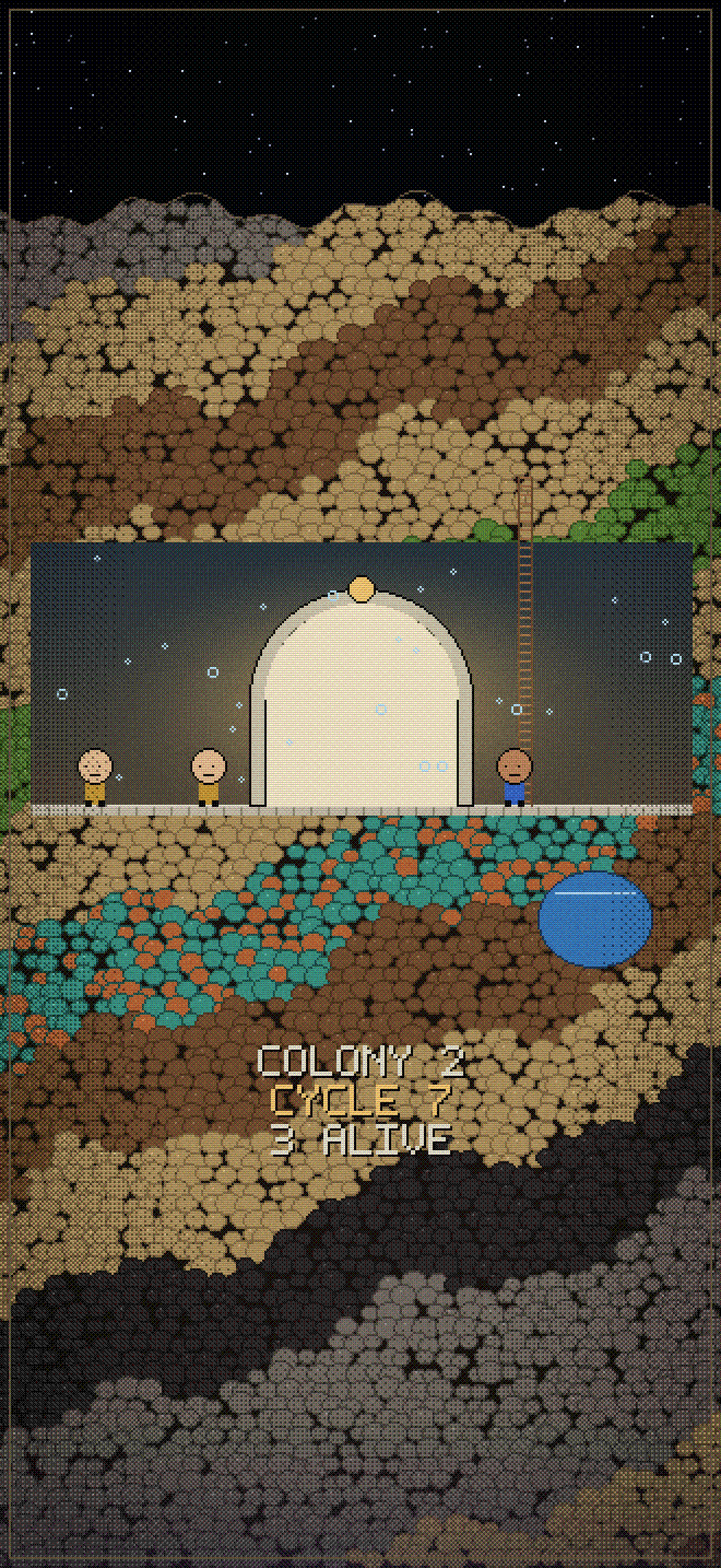
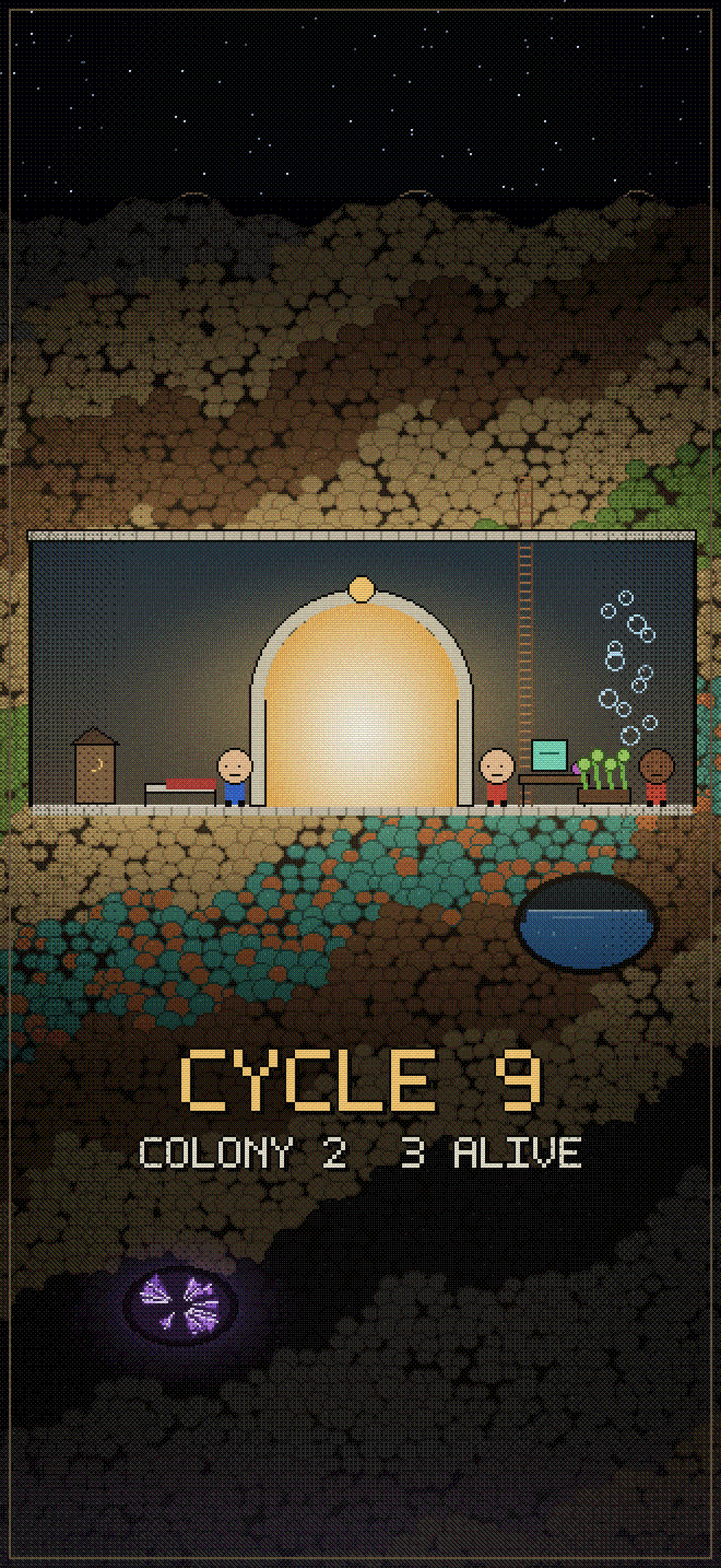
oni wallpaper: lighting falloff, furnished base, glowing arch, oxygen bubbles, geode, bolder type
Claude-Session: https://claude.ai/code/session_01GRUokM32JgeWkBY35PaRht

diff --git a/tools/oniart.py b/tools/oniart.py
@@ -67,16 +67,76 @@ def base(img, rng, x0, y0, x1, y1, alive):
             q = max(0, 1 - math.hypot((x - cx) / (2.6 * r), (y - gy) / (1.5 * r))) ** 1.6
             if q: px[x, y] = tuple(min(255, int(c + (wc - c) * q * .8)) for c, wc in zip(px[x, y], WARM))
     d = ImageDraw.Draw(img)
-    d.rectangle([cx - r + 4, gy, cx + r - 4, y1], fill=(255, 244, 210)); d.ellipse([cx - r + 4, gy - r + 4, cx + r - 4, gy + r - 4], fill=(255, 244, 210))
+    hole = Image.new("L", img.size, 0); hd = ImageDraw.Draw(hole)   # the opening: white-hot at the core, warm at the rim
+    hd.rectangle([cx - r + 4, gy, cx + r - 4, y1], fill=255); hd.ellipse([cx - r + 4, gy - r + 4, cx + r - 4, gy + r - 4], fill=255); hp = hole.load()
+    for y in range(int(gy - r), y1 + 1):
+        for x in range(cx - r, cx + r + 1):
+            if hp[x, y]: q = min(1, math.hypot((x - cx) / r, (y - (gy + r * .3)) / (r * 1.3))); px[x, y] = tuple(int(a + (b - a) * q ** 1.4) for a, b in zip((255, 252, 236), hexc("#f2b85a")))
+    d = ImageDraw.Draw(img)
     for t in (0, 1):   # two pillars and the arch over them
         d.rectangle([cx - r - 3 + t * (2 * r - 1), gy, cx - r + 4 + t * (2 * r - 1), y1], fill=hexc("#d8ceb4"), outline=INK)
     d.arc([cx - r - 3, gy - r - 3, cx + r + 3, gy + r + 3], 180, 360, fill=hexc("#d8ceb4"), width=7); d.arc([cx - r - 3, gy - r - 3, cx + r + 3, gy + r + 3], 180, 360, fill=INK, width=1)
     d.ellipse([cx - 6, gy - r - 9, cx + 6, gy - r + 3], fill=WARM, outline=INK)
     sz = 2 if (y1 - y0) > 90 else 1
-    for i in range(alive): dupe(d, (cx - r - 22 - i * 26) if i % 2 == 0 else (cx + r + 22 + (i - 1) * 26), y1, sz, rng)
-    for _ in range(26):   # oxygen bubbles drifting up from the diffuser end of the room
-        bx, by = rng.randint(x0 + 4, x1 - 4), rng.randint(y0 + 2, y1 - 6); rr = rng.choice([1, 1, 2])
-        d.ellipse([bx - rr, by - rr, bx + rr, by + rr], outline=AIR)
+    furnish(d, x0, x1, y1, cx, r, sz)
+    spots = [cx - r - 5 * sz, cx + r + 7 * sz, x1 - 8 * sz, x0 + 6 * sz]   # in the gaps: cot to arch, arch to desk, past the planter
+    for i in range(alive): dupe(d, spots[i % len(spots)], y1, sz, rng)
+    for i in range(12):   # oxygen rising off the diffuser by the planter, wobbling as it goes
+        t = i / 12; bx = x1 - 14 * sz + 5 * math.sin(i * 1.7) * sz; by = y1 - 16 * sz - t * (y1 - y0 - 26 * sz); rr = (2 + (i % 3 == 0)) * sz // 2 + 1
+        d.ellipse([bx - rr, by - rr, bx + rr, by + rr], outline=AIR); d.point((bx - rr // 2, by - rr // 2), (255, 255, 255))
+    d.rectangle([x0 - 2, y0 - 6, x1 + 2, y0 - 1], fill=hexc("#cfc6b0"), outline=INK)   # a tiled ceiling and dark rims, so the room is dug, not pasted
+    for x in range(x0, x1, 8): d.line([(x, y0 - 5), (x, y0 - 2)], fill=hexc("#9a917c"))
+    d.line([(x0 - 1, y0), (x0 - 1, y1)], fill=INK, width=2); d.line([(x1 + 1, y0), (x1 + 1, y1)], fill=INK, width=2)
+
+
+def furnish(d, x0, x1, y1, cx, r, s):
+    """A cot, the research desk with its screen, an outhouse and a planter of mealwood, the colony's first rooms."""
+    ox = x0 + 10 * s   # the outhouse, a little hut with a moon in the door
+    d.rectangle([ox, y1 - 14 * s, ox + 9 * s, y1 - 1], fill=hexc("#8a6a48"), outline=INK); d.polygon([(ox - s, y1 - 14 * s), (ox + 4 * s, y1 - 18 * s), (ox + 10 * s, y1 - 14 * s)], fill=hexc("#5a4430"), outline=INK)
+    d.arc([ox + 3 * s, y1 - 11 * s, ox + 6 * s, y1 - 8 * s], 300, 120, fill=WARM)
+    bx = ox + 16 * s   # a cot: frame, mattress, a blanket in the colony red
+    d.rectangle([bx, y1 - 5 * s, bx + 16 * s, y1 - 3 * s], fill=hexc("#d8d0bc"), outline=INK); d.rectangle([bx + 5 * s, y1 - 6 * s, bx + 16 * s, y1 - 4 * s], fill=hexc("#b8443a"))
+    d.line([(bx, y1 - 3 * s), (bx, y1)], fill=INK); d.line([(bx + 16 * s, y1 - 3 * s), (bx + 16 * s, y1)], fill=INK)
+    rx = cx + r + 12 * s   # the research station: a desk, a glowing screen, a flask
+    d.rectangle([rx, y1 - 7 * s, rx + 16 * s, y1 - 5 * s], fill=hexc("#7a5a3a"), outline=INK); d.line([(rx + s, y1 - 5 * s), (rx + s, y1)], fill=INK); d.line([(rx + 15 * s, y1 - 5 * s), (rx + 15 * s, y1)], fill=INK)
+    d.rectangle([rx + 3 * s, y1 - 15 * s, rx + 11 * s, y1 - 8 * s], fill=hexc("#7fe0c0"), outline=INK); d.line([(rx + 5 * s, y1 - 12 * s), (rx + 9 * s, y1 - 12 * s)], fill=hexc("#2a6a5a"))
+    d.ellipse([rx + 12 * s, y1 - 10 * s, rx + 15 * s, y1 - 7 * s], fill=hexc("#c86ad0"), outline=INK)
+    px = x1 - 26 * s   # a planter box of mealwood
+    d.rectangle([px, y1 - 4 * s, px + 12 * s, y1 - 1], fill=hexc("#6a4a30"), outline=INK)
+    for i in range(4):
+        lx = px + 2 * s + i * 3 * s; d.line([(lx, y1 - 4 * s), (lx - s, y1 - 9 * s - (i % 2) * 2 * s)], fill=hexc("#7ac04a"), width=s)
+        d.ellipse([lx - 2 * s, y1 - 11 * s - (i % 2) * 2 * s, lx + s, y1 - 8 * s - (i % 2) * 2 * s], fill=hexc("#a8d86a"), outline=hexc("#3e6a24"))
+
+
+def light(img, box, top, warm=.55):
+    """The rock falls off into the dark away from the base, and the rooms spill warm light onto what is near them."""
+    x0, y0, x1, y1 = box; px = img.load(); R = 150
+    for y in range(int(top), img.height):
+        for x in range(img.width):
+            if x0 <= x <= x1 and y0 <= y <= y1 + 4: continue
+            dx = max(x0 - x, 0, x - x1); dy = max(y0 - y, 0, y - y1); q = max(0, 1 - math.hypot(dx, dy * 1.2) / R)
+            f = .3 + .7 * q ** 1.3; c = px[x, y]
+            px[x, y] = tuple(min(255, int(v * f + (wv - v) * f * q * q * warm * .35)) for v, wv in zip(c, WARM))
+
+
+def pocket(d, x, y, w, h, rng):
+    """A cave of water under the base: dark rock rim, the pool filling the lower part, light on its surface."""
+    d.ellipse([x - 3, y - 3, x + w + 3, y + h + 3], fill=hexc("#120e0c")); d.ellipse([x, y, x + w, y + h], fill=hexc("#1e2a33"))
+    sy = y + h * .35
+    d.chord([x, y, x + w, y + h], 0, 180, fill=WATER); d.rectangle([x + 3, sy, x + w - 3, y + h / 2], fill=WATER)
+    d.line([(x + 4, sy), (x + w - 4, sy)], fill=AIR); d.line([(x + w * .25, sy + 3), (x + w * .55, sy + 3)], fill=hexc("#7ab8e8"))
+    for _ in range(5): bx, by = rng.uniform(x + 8, x + w - 8), rng.uniform(sy + 6, y + h - 6); d.point((bx, by), hexc("#9ad0f8"))
+
+
+def geode(d, cx, cy, rng):
+    """The world's geode trait: a cracked cavity of violet crystal catching the light."""
+    d.ellipse([cx - 26, cy - 18, cx + 26, cy + 18], fill=hexc("#140e18"), outline=INK); d.ellipse([cx - 22, cy - 15, cx + 22, cy + 15], fill=hexc("#2a1c38"))
+    for _ in range(16):
+        a = rng.uniform(0, 6.28); r0 = rng.uniform(14, 20); bx, by = cx + r0 * math.cos(a) * 1.1, cy + r0 * math.sin(a) * .72
+        tx, ty = cx + (bx - cx) * .35, cy + (by - cy) * .35; hw = rng.uniform(2.5, 4)
+        nx, ny = -(ty - by), tx - bx; n = math.hypot(nx, ny) or 1; nx, ny = nx / n * hw, ny / n * hw
+        c = rng.choice([hexc("#b07ae8"), hexc("#8a5ad0"), hexc("#d8b0ff")])
+        d.polygon([(bx + nx, by + ny), (tx, ty), (bx - nx, by - ny)], fill=c, outline=hexc("#4a2a6a")); d.line([(bx + nx * .4, by + ny * .4), (tx, ty)], fill=hexc("#f0e0ff"))
 
 
 def oni(kind):
@@ -91,19 +151,24 @@ def oni(kind):
     for _ in range(90 if not desktop else 160): d.point((rng.randrange(w), rng.randrange(sky + 20)), rng.choice([hexc("#8a9ab8"), hexc("#d8e4ff")]))
     if desktop: bx0, by0, bx1, by1 = w // 2 - 170, h // 2 - 40, w // 2 + 170, h // 2 + 40
     else: bx0, by0, bx1, by1 = 14, h // 2 - 110, w - 14, h // 2 + 10
+    pocket(ImageDraw.Draw(img), bx1 - (96 if desktop else 78), by1 + 34, 70 if desktop else 60, 40, rng)
+    light(img, (bx0, by0, bx1, by1), sky + 20)
+    gx, gy = (w // 4, h - 120) if not desktop else (w - 120, h - 70); px = img.load()
+    for y in range(gy - 46, gy + 46):   # its own violet glow, since the base light never reaches this deep
+        for x in range(max(0, gx - 64), min(w, gx + 64)):
+            q = max(0, 1 - math.hypot((x - gx) / 60, (y - gy) / 42)) ** 2; px[x, y] = tuple(min(255, int(c + (v - c) * q * .75)) for c, v in zip(px[x, y], hexc("#9a6ad8")))
+    geode(ImageDraw.Draw(img), gx, gy, rng)
     base(img, rng, bx0, by0, bx1, by1, alive); d = ImageDraw.Draw(img)
-    px0, py0 = bx1 - (90 if desktop else 70), by1 + 30   # a water pocket below the base, its surface catching the light
-    d.ellipse([px0, py0, px0 + (70 if desktop else 52), py0 + 44], fill=WATER, outline=hexc("#1c3a5c")); d.line([(px0 + 8, py0 + 10), (px0 + 44, py0 + 10)], fill=AIR)
     for y in range(h - 70, h):   # CO2 pools at the bottom, heavier than air
         t = (y - (h - 70)) / 70
         for x in range(w):
             r, g, b = img.getpixel((x, y)); img.putpixel((x, y), tuple(int(c * (1 - .55 * t) + q * .55 * t) for c, q in zip((r, g, b), CO2)))
-    d = ImageDraw.Draw(img); s = 2
-    lines = [f"COLONY {colony}", f"CYCLE {cycle}", f"{alive} ALIVE"]
-    ty = by1 + (110 if not desktop else 60)
-    for i, line in enumerate(lines):
-        tx = (w - width(line, s)) // 2; y = ty + i * 9 * s
-        text(d, tx + 1, y + 1, line, INK, s); text(d, tx, y, line, WARM if i == 1 else hexc("#f0ecd8"), s)
+    d = ImageDraw.Draw(img)
+    big, small = f"CYCLE {cycle}", f"COLONY {colony}  {alive} ALIVE"; ty = by1 + (112 if not desktop else 64)
+    for word, sc, col, y in ((big, 4, WARM, ty), (small, 2, hexc("#f0ecd8"), ty + 40)):   # one big number, one quiet line
+        tx = (w - width(word, sc)) // 2
+        for ox, oy in ((-1, 0), (1, 0), (0, -1), (0, 1), (2, 2)): text(d, tx + ox, y + oy, word, INK, sc)
+        text(d, tx, y, word, col, sc)
     f = 6 if desktop else 4
     vignette(img, f); ImageDraw.Draw(img).rectangle([f, f, w - 1 - f, h - 1 - f], outline=hexc("#6a5a44"))
     img = dither(img.resize((w * 2, h * 2), Image.NEAREST), 6)
